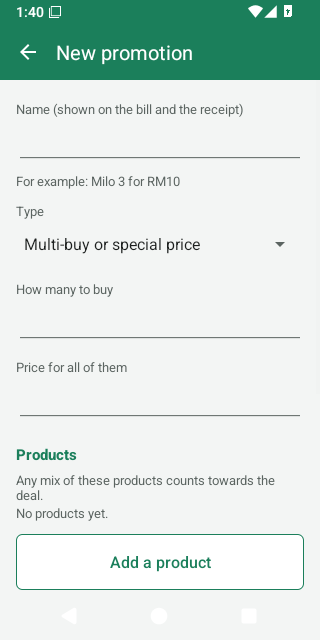
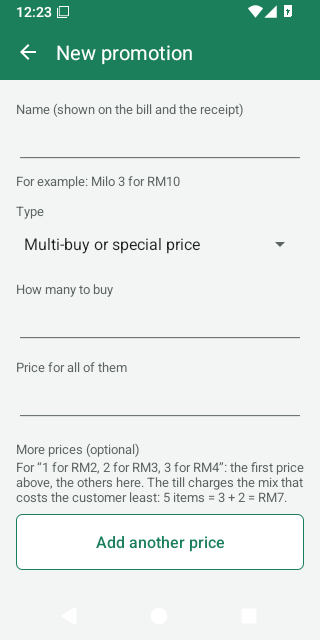
1.15.0: CI green (build 162), test build published; guide screenshots of the promotion editor

diff --git a/docs/PHASES.md b/docs/PHASES.md
@@ -36,7 +36,7 @@ to the user. **The next phase starts only after the user's real-device feedback.
 | — | **Documentation** (no app change): user guide in English and Malay on the website with screenshots; `llms.txt`; AI docs — `AGENTS.md`, skill references `codemap`, `features`, `recipes`, `glossary`; website check in `pages.yml` (D-070) | **live** 2026-10-08 — https://faizoken.github.io/LekasPOS/guide.html (commit 9085b8f); the owner's read-through pending |
 | — | **1.13.1**: nothing without a price sells free (weighed item at 0.00 asks its price per kg; packs and weight labels too); "Require an open shift" turned on once per shop, not again by a till that joins; Settings → User guide (D-071) | **released** 2026-10-09 (v1.13.1, build 152) — the owner asked to release it; offered in the app to shops on 1.6.1+; phone checks still to run |
 | — | **1.14.0**: cashiers refund and take returns themselves and void their own last sale within 5 minutes, on record; shops from before get it once on the Cashier role, the owner can switch it off (D-072) | **released** 2026-10-12 (v1.14.0, build 158) — the owner tested it: "all good"; asked by a shop (reports issue #9) |
-| — | **1.15.0**: a multi-buy with several prices ("2 for RM3, 3 for RM4"), the bill takes the cheapest mix; promotions made per price on the same products combine (D-073) | in progress — local tests pass; CI and the test build next |
+| — | **1.15.0**: a multi-buy with several prices ("2 for RM3, 3 for RM4"), the bill takes the cheapest mix; promotions made per price on the same products combine (D-073) | test build **v1.15.0** (build 162) — waiting for the owner's phone check |
 
 ## Open questions for the user
 
@@ -1905,8 +1905,13 @@ RM4) — "please fix this issue in better way and do it your best".
 - [x] User guide (both languages: new "Several prices (2 for RM3, 3 for RM4)" with a table, Good to know, captions),
       `features.md`, `money.md` §11, `database.md`, `sync.md`, `codemap.md`, `glossary.md`, `recipes.md`, D-073. Privacy
       policy unchanged (nothing new about people stored or sent)
-- [ ] CI (instrumented API 21 + 36, tablet, release smoke), then refresh `en/ms-promotion-edit.png` from its screenshots
-- [ ] Test build v1.15.0, the owner's phone check (below)
+- [x] CI on d0c2c26 (run 38247529804, build 162): **286/286 on API 21 and 36**, tablet, release smoke (upgrade from
+      1.14.0) API 21 and 36, lint; release APK **1,612,004 bytes**. `en/ms-promotion-edit.png` refreshed from its
+      screenshots (now with "More prices")
+- [x] Test build **v1.15.0** (pre-release, 2026-10-12; build 162, release key — same certificate `0a67abec…d4b9`; SHA-256
+      of the APK `7ce645d9…ea8d`, `mapping-1.15.0.txt` attached). The public download stays v1.14.0; phones with
+      "Include test versions" are offered it
+- [ ] The owner's phone check (below)
 
 ### Needs real-device testing (1.15.0)
 
